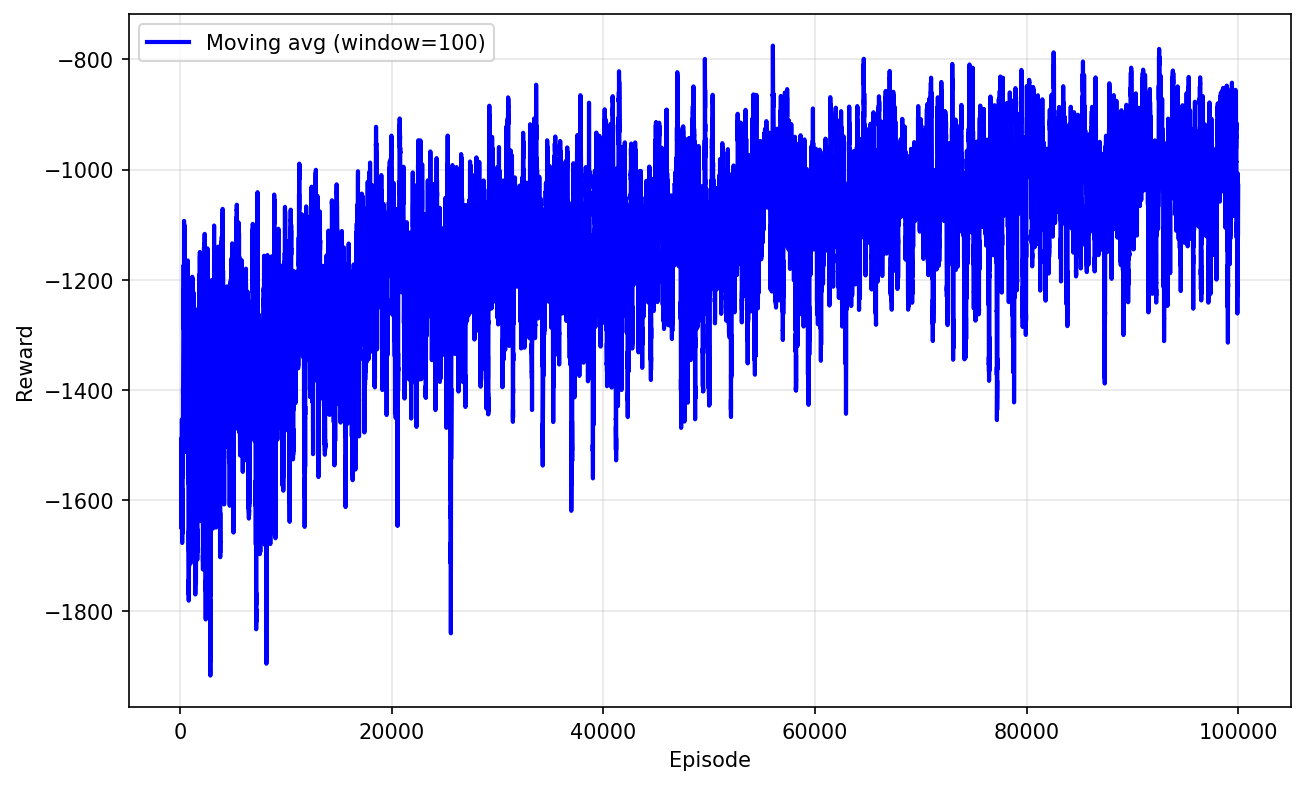
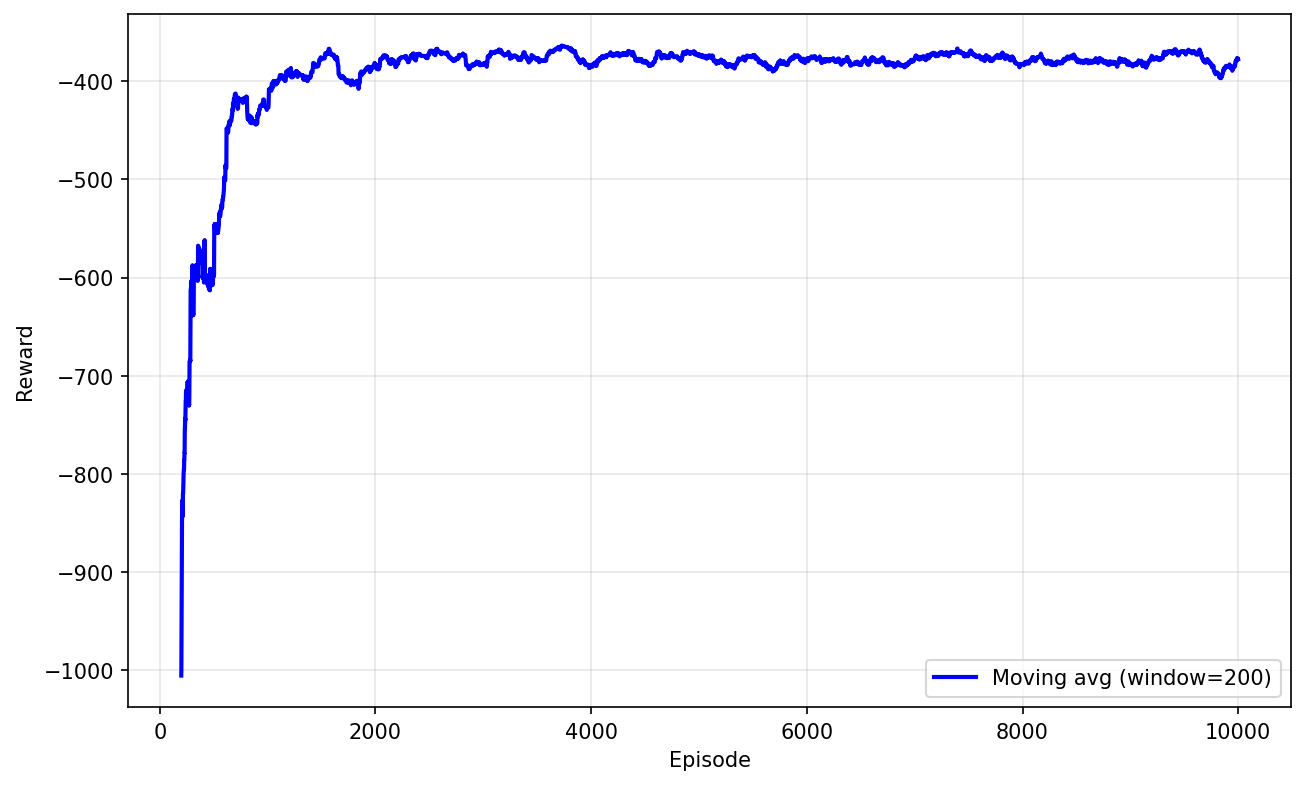
convergence point detection function added

diff --git a/main.py b/main.py
@@ -115,6 +115,46 @@ def compare_with_a2c(a2c_latency, a2c_reward, baseline_results):
 def moving_average(data, window):
     """Compute moving average with given window size."""
     return np.convolve(data, np.ones(window)/window, mode='valid')
+def detect_convergence(smoothed, window_offset=0, tol=0.02, stable_window=500):
+    """
+    Detect the episode at which a smoothed curve converges to a stable value.
+    
+    Args:
+        smoothed: array of smoothed values (e.g., output of moving_average)
+        window_offset: offset to add to indices (e.g., window-1 if smoothed 
+                       starts at episode window-1 rather than 0)
+        tol: relative tolerance for stability (e.g., 0.02 = 2% of final value)
+        stable_window: number of consecutive points that must stay within tolerance
+    
+    Returns:
+        (convergence_episode, converged_value, final_value) or (None, None, final_value)
+        if no convergence is detected.
+    """
+    smoothed = np.asarray(smoothed)
+    
+    if len(smoothed) < stable_window:
+        print("Not enough data to detect convergence.")
+        return None, None, None
+    
+    # The value the curve settles to (mean of the tail)
+    final_value = np.mean(smoothed[-stable_window:])
+    threshold = tol * abs(final_value)
+    
+    # Walk forward and find the first window that stays within tolerance
+    for i in range(len(smoothed) - stable_window):
+        segment = smoothed[i:i + stable_window]
+        if np.max(np.abs(segment - final_value)) < threshold:
+            convergence_episode = i + window_offset
+            converged_value = smoothed[i]
+            print(f"✓ Convergence detected at episode ~{convergence_episode}")
+            print(f"  Converged value at that point: {converged_value:.2f}")
+            print(f"  Final stable value:            {final_value:.2f}")
+            print(f"  Tolerance used:                ±{threshold:.2f} ({tol*100:.1f}%)")
+            return convergence_episode, converged_value, final_value
+    
+    print(f"✗ No convergence detected (tol={tol}, stable_window={stable_window})")
+    print(f"  Final value: {final_value:.2f}")
+    return None, None, final_value
 
 def plot_convergence_curve(episode_rewards, window=200, title="", 
                            xlabel="Episode", ylabel="Reward", save_path="/Users/ayushmarasini/Downloads/LLM/LLM_RL_offloading/"):
@@ -135,6 +175,10 @@ def plot_convergence_curve(episode_rewards, window=200, title="",
     
     # Plot smoothed values
     smoothed = moving_average(episode_rewards, window)
+    conv_episode, conv_value, final_value = detect_convergence(
+        smoothed, window_offset=window-1, tol=0.02, stable_window=300
+    )
+    
     smoothed_episodes = np.arange(window-1, len(episode_rewards))
     plt.plot(smoothed_episodes, smoothed, linewidth=2, color='blue', label=f'Moving avg (window={window})')
     
@@ -154,7 +198,7 @@ if __name__ == "__main__":
     print("LOADING PROFILING DATA")
     print("=" * 80)
     # profiling_data = get_LLM_profiling_data()
-    profiling_data = get_graph3()
+    profiling_data = get_graph2()
     pipleline_overhead_time = []
 
     for n in range(1,2,2):
@@ -176,7 +220,7 @@ if __name__ == "__main__":
         # print("=" * 80)
         
         # Define number of episodes for training and baselines
-        TRAIN_EPISODES = 50000
+        TRAIN_EPISODES = 10000
         BASELINE_EPISODES = 1
         
         # # Run baseline schedulers
@@ -210,7 +254,7 @@ if __name__ == "__main__":
     # )
     # latencies_ms, rewards, assignment_counts = evaluate_agent(agent, num_episodes=1000)
 
-    # plot_convergence_curve(episode_rewards)
+    plot_convergence_curve(episode_rewards)
 
     # segments = aggregate_assignments_by_segment(assignment_counts)
 

diff --git a/baselines/hurustic_baselines.py b/baselines/hurustic_baselines.py
@@ -2,6 +2,7 @@ import random
 import numpy as np
 import matplotlib.pyplot as plt
 # from simulator.simulator import CloudEdgeSimulator  # OLD
+from profiling.initialize.initialize_agx_profiling import get_LLM_profiling_data
 from profiling.profiling_class import ProfilingData
 # Import your new simulator
 from simulator.simulator import CloudEdgeSimulator  # Update import path as needed
@@ -171,9 +172,9 @@ def run_scheduler(profiling_data: ProfilingData, episodes=10, max_steps=5000, sc
 
     print("\n" + "=" * 80)
     print("Average time per token:")
-    print(f"Average time per token: {np.mean(episode_latencies[1000:])/np.mean(episode_num_of_tokens[1000:]):.4f}ms")
-    print(f" minimum time per token: {np.min(episode_latencies[1000:])/np.max(episode_num_of_tokens[1000:]):.4f}ms")
-    print(f" maximum time per token: {np.max(episode_latencies[1000:])/np.min(episode_num_of_tokens[1000:]):.4f}ms")
+    print(f"Average time per token: {np.mean(episode_latencies)/np.mean(episode_num_of_tokens):.4f}ms")
+    print(f" minimum time per token: {np.min(episode_latencies)/np.max(episode_num_of_tokens):.4f}ms")
+    print(f" maximum time per token: {np.max(episode_latencies)/np.min(episode_num_of_tokens):.4f}ms")
     
     # Optional: Plot results
     # plt.figure(figsize=(12, 4))
@@ -226,9 +227,11 @@ def run_random_scheduler(profiling_data: ProfilingData, episodes=10, max_steps=2
 if __name__ == "__main__":
     # Load profiling data
     # profiling_data = ProfilingData(...)  # Load your profiling data
+
+    profiling_data = get_LLM_profiling_data()
     
     # Run different schedulers
     # avg_latency, avg_reward, misses = run_scheduler(profiling_data, episodes=5, scheduler_type='random')
     # avg_latency, avg_reward, misses = run_scheduler(profiling_data, episodes=5, scheduler_type='all_edge')
-    # avg_latency, avg_reward, misses = run_scheduler(profiling_data, episodes=5, scheduler_type='all_cloud')
+    avg_latency, avg_reward, misses = run_scheduler(profiling_data, episodes=1000, scheduler_type='all_cloud')
     pass

diff --git a/simulator/simulator.py b/simulator/simulator.py
@@ -128,7 +128,7 @@ class CloudEdgeSimulator:
         self.isEos2 = False
         self.total_generated_tokens = 0
 
-        self.eos_simulator = EosSimulator(graph_index='graph3')
+        self.eos_simulator = EosSimulator(graph_index='graph2')
 
         self.total_pipeline = total_pipeline
         # Default bandwidth CSV path
@@ -298,12 +298,17 @@ class CloudEdgeSimulator:
        
         # Get current bandwidth
         current_bandwidth = self.get_current_bandwidth()
-        self.isEos1, self.isEos2, next_layer, terminal = self.eos_simulator.simulate_eos(layer, len(self.profiling.layers))
-        for i in range(len(action)):
-            number_of_op_tokens = self.profiling.get_number_of_op_tokens(layer, i)
-            if (not self.isEos1 or not self.isEos2 or (i == 0 and layer == 0)):
-                self.total_generated_tokens += number_of_op_tokens                
-        
+        # self.isEos1, self.isEos2, next_layer, terminal = self.eos_simulator.simulate_eos(layer, len(self.profiling.layers))
+        # for i in range(len(action)):
+        #     number_of_op_tokens = self.profiling.get_number_of_op_tokens(layer, i)
+        #     if (not self.isEos1 or not self.isEos2 or (i == 0 and layer == 0)):
+        #         self.total_generated_tokens += number_of_op_tokens                
+        if (layer < (len(self.profiling.layers)-1)):
+            next_layer = layer+1
+            terminal = False
+        else:
+            next_layer = layer
+            terminal = True
         # Convert previous action to pattern for next state
         prev_action_pattern = self._action_to_pattern(action)
        
